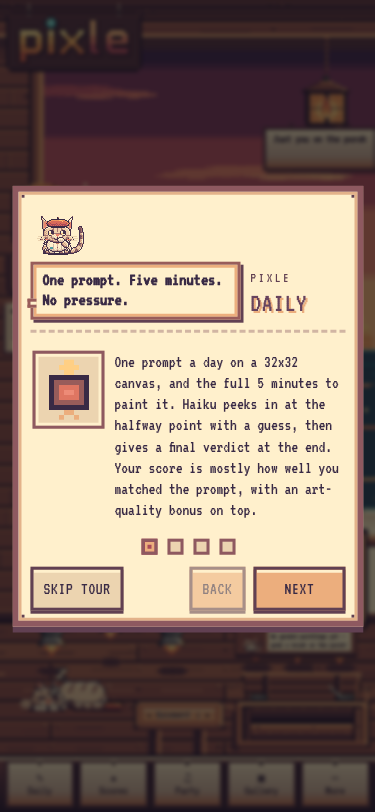
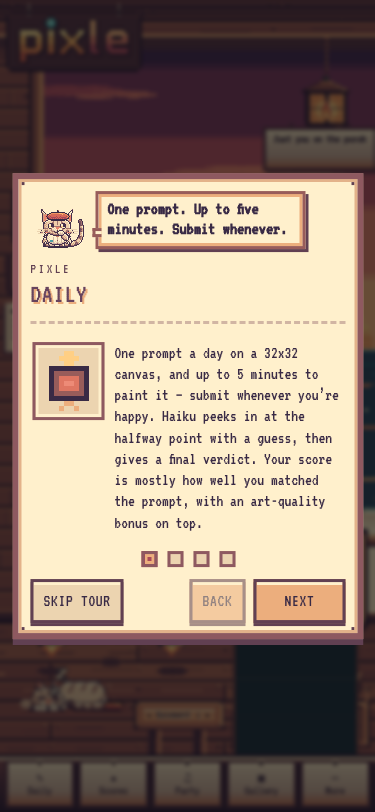
fix: settings follows the loaded profile; tidy the username form and onboarding header
Checked on local dev, signed in, at 1980x1240@2x (no console errors):
- Settings rendered an empty, red 'invalid' username box because the form copied its value
  before the profile answered; it now follows the profile until the player types, says
  'Your current name' and keeps Save off until the name changes.
- The username check and rules sit under the field, above the button.
- Haiku and the bubble sit above the onboarding title instead of crowding it.
- The owner's debug-paintings bar moved top-right, off the stats plaque.

Changed region(s): [[0.0293, 0.2155, 0.968, 0.9544]]

diff --git a/src/components/profile/UsernameForm.tsx b/src/components/profile/UsernameForm.tsx
@@ -44,6 +44,12 @@ export function UsernameForm({
   const [availability, setAvailability] = useState<Availability>({ status: 'idle' })
   const [submitting, setSubmitting] = useState(false)
   const [submitError, setSubmitError] = useState<string | null>(null)
+  // The profile often answers after the first render (Settings): until the player types, follow it,
+  // so the field shows their current name instead of an empty, "invalid" box.
+  const [edited, setEdited] = useState(false)
+  useEffect(() => {
+    if (!edited) setValue(initialValue)
+  }, [initialValue, edited])
 
   const validation = useMemo(() => validateUsername(value), [value])
   // The key changes only when the meaning changes, so typing trailing spaces
@@ -86,19 +92,21 @@ export function UsernameForm({
   // Ready only after a positive answer (or an unreachable check, where the
   // server's answer on submit is the final word).
   const checkedIn = availability.status === 'ok' || (availability.status === 'error' && availability.code === 'unknown')
-  const canSubmit = validation.ok && checkedIn && !knownBad && !submitting
+  // Settings: re-saving the name you already have is not a change.
+  const unchanged = Boolean(currentUsername) && validation.ok && validation.username === currentUsername
+  const canSubmit = validation.ok && checkedIn && !knownBad && !submitting && !unchanged
 
   const message = !validation.ok
     ? validation.message
     : availability.status === 'checking'
       ? 'Checking that name…'
       : availability.status === 'ok'
-        ? 'Available'
+        ? unchanged ? 'Your current name' : 'Available'
         : availability.status === 'error'
           ? availability.message
           : null
 
-  const messageTone = !validation.ok || knownBad ? 'error' : availability.status === 'ok' ? 'ok' : 'idle'
+  const messageTone = (!validation.ok && (touched || value.length > 0)) || knownBad ? 'error' : availability.status === 'ok' ? 'ok' : 'idle'
   const showMessage = !validation.ok ? touched || value.length > 0 : Boolean(message)
 
   async function submit(event: FormEvent) {
@@ -123,7 +131,7 @@ export function UsernameForm({
       data-testid="username-input"
       className="username-form__input"
       value={value}
-      onChange={(event) => { setValue(event.target.value); setSubmitError(null) }}
+      onChange={(event) => { setEdited(true); setValue(event.target.value); setSubmitError(null) }}
       onBlur={() => setTouched(true)}
       maxLength={USERNAME_MAX_LENGTH + 8}
       autoComplete="off"
@@ -131,7 +139,7 @@ export function UsernameForm({
       autoCorrect="off"
       spellCheck={false}
       autoFocus={autoFocus}
-      aria-invalid={!validation.ok || knownBad || undefined}
+      aria-invalid={(!validation.ok && (touched || value.length > 0)) || knownBad || undefined}
       aria-describedby={statusId}
     />
   )
@@ -172,18 +180,23 @@ export function UsernameForm({
         <>
           <label htmlFor={inputId} className="username-form__label">Username</label>
           {field}
+          {/* The name's check and the rules belong to the field, so they sit under it, above the button. */}
+          {status}
+          <p className="username-form__rules">
+            3-16 characters. Letters, numbers, _ and -.
+          </p>
+          {submitError && submitError !== message && (
+            <p className="username-form__status username-form__status--error" role="alert" data-testid="username-submit-error">
+              {submitError}
+            </p>
+          )}
           {button}
         </>
       )}
-      {status}
-      {submitError && submitError !== message && (
+      {compact && status}
+      {compact && submitError && submitError !== message && (
         <p className="username-form__status username-form__status--error" role="alert" data-testid="username-submit-error">
           {submitError}
-        </p>
-      )}
-      {!compact && (
-        <p className="username-form__rules">
-          3-16 characters. Letters, numbers, _ and -.
         </p>
       )}
     </form>

diff --git a/src/components/gallery/gallery.css b/src/components/gallery/gallery.css
@@ -227,7 +227,7 @@
   .gallery-hud__title { font-size: 18px; }
 }
 /* DEV ONLY (__DEBUG_TOOLS__): down on the deck boards, clear of the paintings. */
-.gallery-debug { position: fixed; z-index: 3; left: 8px; bottom: 8px; max-width: calc(100vw - 16px); display: flex; flex-wrap: wrap; align-items: center; gap: 6px; padding: 4px 8px; font-size: 15px; line-height: 1; background: #fff0cc; color: #392a45; border: 3px solid #985c5a; box-shadow: inset 0 0 0 2px #ecd4b0, 3px 3px 0 rgba(57, 42, 69, 0.55); }
+.gallery-debug { position: fixed; z-index: 3; right: 8px; top: calc(var(--porch-nav-height, 64px) + 12px); /* top-right: the stats plaque owns the bottom edge */ justify-content: flex-end; max-width: calc(100vw - 16px); display: flex; flex-wrap: wrap; align-items: center; gap: 6px; padding: 4px 8px; font-size: 15px; line-height: 1; background: #fff0cc; color: #392a45; border: 3px solid #985c5a; box-shadow: inset 0 0 0 2px #ecd4b0, 3px 3px 0 rgba(57, 42, 69, 0.55); }
 .gallery-debug__label { opacity: 0.7; }
 .gallery-debug .gallery-debug__button { min-height: 32px; padding: 0 10px; font-size: 15px; }
 .gallery-debug__note { opacity: 0.8; }

diff --git a/tests/offline/onboarding.spec.ts b/tests/offline/onboarding.spec.ts
@@ -244,6 +244,17 @@ test('a player who already finished onboarding is not interrupted', async ({ pag
   await expect(dialog(page)).toHaveCount(0)
 })
 
+test('Settings shows the current username once the profile loads, with nothing to save yet', async ({ page }) => {
+  await setup(page, { profile: { userId: user.id, username: 'PixelWill', onboardedAt: Date.now(), usernameChangedAt: 0 } })
+  await page.goto(`${origin}/settings`)
+  const input = page.getByTestId('username-input')
+  await expect(input).toHaveValue('PixelWill')
+  await expect(page.getByTestId('username-status')).toHaveText('Your current name')
+  await expect(input).not.toHaveAttribute('aria-invalid', 'true')
+  await input.fill('PixelWill2')
+  await expect(page.getByTestId('username-status')).toHaveText('Available')
+})
+
 test('the dialog stays inside a phone viewport without sideways scrolling', async ({ page }) => {
   await page.setViewportSize({ width: 375, height: 812 })
   await setup(page)

diff --git a/src/components/onboarding/OnboardingGate.tsx b/src/components/onboarding/OnboardingGate.tsx
@@ -148,7 +148,7 @@ function OnboardingModal({ profile, onSaved }: { profile: ProfileView | null; on
       }}
     >
       <header className="onboarding__host">
-        <Haiku state={step === 'username' ? 'idle' : 'thinking'} scale={2} bubble={step === 'username' ? 'Hi! I’m Haiku.' : tourStep?.bubble} stackBubble />
+        <Haiku state={step === 'username' ? 'idle' : 'thinking'} scale={2} bubble={step === 'username' ? 'Hi! I’m Haiku.' : tourStep?.bubble} />
         <div className="onboarding__head">
           <p className="onboarding__eyebrow">Pixle</p>
           <h2 className="onboarding__title">

diff --git a/src/components/onboarding/onboarding.css b/src/components/onboarding/onboarding.css
@@ -9,9 +9,11 @@
 }
 
 .onboarding__host {
+  /* Haiku and the speech bubble on one line, the title under them: the title never shares a row with the bubble. */
   display: flex;
-  align-items: flex-end;
-  gap: 14px;
+  flex-direction: column;
+  align-items: flex-start;
+  gap: 8px;
   padding-bottom: 10px;
   border-bottom: var(--px, 2px) dashed #d1b5a3;
 }

diff --git a/docs/progress.md b/docs/progress.md
@@ -648,3 +648,4 @@ The fake judge is selected by default in dev and tests so those runs make no pai
 - **Friends' galleries:** today's painting comes from the gated route once both players have finished, updates live when the friend's score row flips to ended, and shows a "Finish today's Daily to see …" frame otherwise. Someone else's empty wall no longer says "Your first painting".
 - **Canvas:** two-finger pinch-zoom (1–5×) and pan on touch, with a 120 ms deferral so a pinch never drops a pixel, and a 1× reset chip.
 - **Process:** Codex hit its usage limit before writing code and OpenCode's weekly limit hit mid-wave; partial work was checkpointed and finished in the parent. Review of the Daily rework (OpenCode mimo-pro) found four real issues, all fixed with tests.
+- **Cleanup before merge (checked on local dev, signed in, 1980x1240@2x; no console errors):** the username form's "Available"/rules sit under the field; Haiku and the bubble sit above the onboarding title instead of beside it; Settings follows the profile when it loads (it rendered an empty, red "invalid" box) and says "Your current name" with Save off until the name changes; the owner's debug-paintings bar moved top-right, off the stats plaque; two players on the scores board stack from the top. Judge prompts were run live on Haiku (ordering polished-on 748 > crude-on 239 > spelled 54 > off-prompt 16 > blank 0); the anti-spelling rule only rejects writing that spells the answer.
